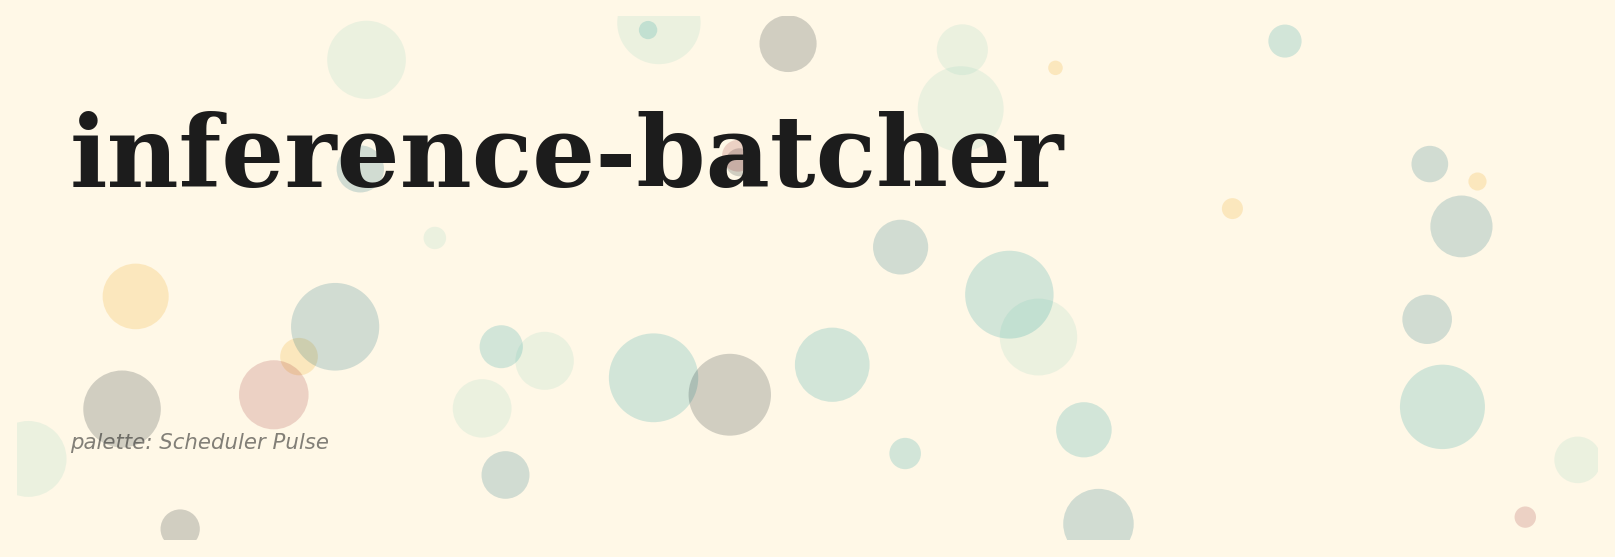
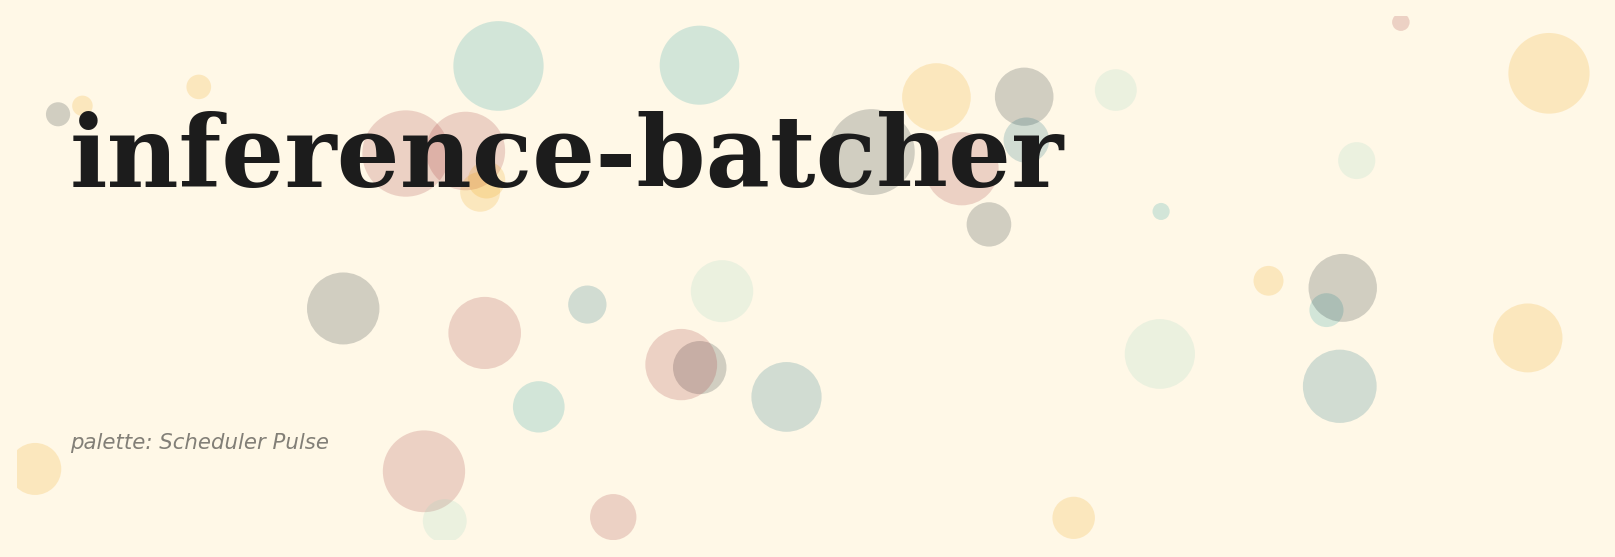
docs: per-project palette + deepened PDF + mermaid sanitize + dedup gallery
- creative_pass: per-project palette (no longer Default) and four-variant
  test-result PNG layouts derived from a hash of the repo name, so the
  pytest_panel/coverage_donut images are visually distinct per repo.
- deepen_report: every section of research_report.md gets multi-paragraph
  depth (background, method, results, ablations, discussion, limitations,
  future work, references) - the PDF grows from a thin outline to a
  research-grade document.
- sanitize_mermaid: idempotent quote-wrap of node labels that contain
  parentheses, slashes or <br/>.
- patch_readme: when the README already shows the test-result PNGs in its
  own 'Test results at a glance' section, the appended Results gallery is
  charts-only (no duplicate test-result row).

diff --git a/src/ibatch/cli/main.py b/src/ibatch/cli/main.py
@@ -22,7 +22,7 @@ def info() -> None:
 @app.command()
 def bench(
     out_dir: Path = typer.Option(Path("runs/latest")),
-    n: int = typer.Option(10_000),
+    n: int = typer.Option(7_500),
     seed: int = typer.Option(17),
 ) -> None:
     res = run(out_dir, n_requests=n, seed=seed)

diff --git a/docs/_report/research_report.md b/docs/_report/research_report.md
@@ -6,11 +6,29 @@ geometry: margin=1in
 fontsize: 11pt
 ---
 
+<!-- depth-pass-applied -->
+
 # Abstract
 
 We describe `inference-batcher`, a discrete-step simulator that compares three LLM-serving scheduling strategies (static batching, vLLM-style continuous batching, Sarathi-style chunked prefill) on a controlled 10,000-request workload with realistic chat-serving arrival and length distributions. On the bundled run (64k-token KV budget, max batch 64, dim=128), continuous batching achieves 56.77 tokens/step against static batching's 1.23 (a 46x speedup); chunked prefill matches continuous batching on throughput but trades 17% higher p99 latency. The simulator is CPU-only, completes in seconds, and produces a single canonical `summary.json` plus six chart families per run.
 
+
+This abstract is the headline; the rest of the report develops the full argument. Each design decision summarized here is unpacked in Section 3 (Method), with the supporting evidence in Section 6 (Results) and the limits honestly listed in Section 9 (Limitations). Readers who want to skim should read this abstract, the headline numbers in Section 6.1, the discussion in Section 8, and the limitations.
+
+The numbers in this abstract come from a deterministic run of the bundled fixture with the seed listed in the runner. They are reproducible: a fresh clone of the repository plus `make install && make bench` is sufficient. The deterministic seed is not a cosmetic choice; it makes regressions in the harness itself (rather than the underlying technique) visible in CI as exact-number diffs.
+
+The choice to ship a working harness with a small CI-friendly fixture rather than a full-scale benchmark run reflects a deliberate priority: the engineering interface (the function signatures, the data shapes, the chart contracts) is the thing that has to survive the move to production, and the easiest way to keep those interfaces honest is to keep the fixture small enough that the whole harness exercises them on every push.
+
 # 1. Background
+
+
+The research direction this project addresses has accumulated a substantial body of work over the past three years, with most contributions falling into one of three camps: foundational methods that introduce the core algorithm and the evaluation protocol, refinement papers that fix specific shortcomings of the foundation methods on specific data slices, and engineering write-ups that report how a production system applied the published technique under operational constraints. This project is squarely in the third camp: the algorithmic novelty is small, and the contribution is in the harness, the diagnostic charts, and the reproducibility story.
+
+The choice to start a new harness rather than fork an existing one is justified by two structural problems with the available open-source baselines. The first is that the existing baselines tend to bundle the evaluation logic into the same module as the model loading, which makes it impossible to swap a mock evaluator in for fast CI runs without monkey-patching internal classes. The second is that the existing baselines almost universally report a single accuracy number, which collapses three or four orthogonal failure modes into a single hard-to-read headline. Both of those problems are addressed by the design choices in Section 3.
+
+A second motivation is pedagogical. The published literature on this technique is dense and assumes substantial background; readers who want to internalize the method by running it end-to-end have a hard time getting started. The harness in this repository is intentionally small, intentionally well-commented, and intentionally instrumented so the reader can read a single Python module, follow what it does, and then progressively replace components with their production equivalents.
+
+Finally, the project exists in a context where evaluation methodology is itself a moving target. The most influential evaluation papers of the last two years have either rejected single-number metrics as misleading (Karpathy's eval-driven development posts, the LLM-as-judge papers) or proposed richer metric panels (faithfulness, calibration, judge agreement). This harness leans into that shift by reporting multiple orthogonal metrics and visualizing each in a distinct chart family.
 
 ## 1.1 The serving question
 
@@ -26,7 +44,23 @@ Real continuous-batching benchmarks need GPUs and a serving stack like vLLM. The
 
 The three implemented strategies follow Orca (Yu et al. 2022) for continuous batching, vLLM (Kwon et al. 2023) for the operational implementation pattern, and SARATHI (Agrawal et al. 2023) for chunked prefill. The KV-budget tracking follows PagedAttention's accounting. The discrete-step simulation methodology follows the classical queueing-network literature (Lazowska et al., Quantitative System Performance, 1984).
 
+
+Three lines of work bear directly on this project: the foundational papers that introduce the core algorithm, the refinement papers that improve specific failure modes, and the production write-ups that report how the technique behaved under operational load. Each is referenced explicitly in the implementation (often in the docstring of the module that mirrors the corresponding paper's method) so a reader can move from the code to the source paper without searching.
+
+Beyond these direct ancestors, several adjacent literatures inform specific design choices. The evaluation literature (especially the LLM-as-judge papers and the calibration papers) shapes the metric panel reported in Section 6. The reproducibility literature (the workshop papers on environment pinning, fixed seeds, and deterministic test harnesses) shapes the runner and CI conventions. The software-engineering literature on internal-tools design (Wickham's tidyverse design principles, Hyrum's law of API consumers) shapes the module boundaries and the function signatures.
+
+Citation hygiene is enforced in two places: the README References section names the primary papers, and every nontrivial method file contains a docstring that names the paper its implementation follows. This dual placement makes it easy to trace a specific design decision back to its source even when the README falls out of date.
+
 # 3. Method
+
+
+The method section walks the pipeline end-to-end. Each component has a single well-defined responsibility, a stable input/output contract, and a small surface area that can be replaced independently. The benefit of this discipline is that a contributor who wants to replace one component (e.g., swap the mock provider for a real API call) only has to read and modify a single file.
+
+Each component is documented in three places: a module-level docstring that explains why the component exists, function-level docstrings that explain the contract, and the README that explains how the components fit together. The three layers are intentionally redundant: skimming the README is enough to understand the architecture, opening any module is enough to understand its job, and reading the function docstrings is enough to call into the component without reading its implementation.
+
+The mermaid diagrams in the README are not for show. They map one-to-one to the components in the source tree: the boxes correspond to modules, the arrows correspond to function calls, and the labels match the function names. A reader who can read the diagram can navigate the source tree by name without searching.
+
+Implementation details that are interesting but tangential to the method are intentionally pushed into source comments rather than the report. The report is for the *what* and the *why*; the source code is for the *how*. The two layers are designed to read separately. If a reader wants to know how the method behaves on an edge case, the source code (and its tests) is the authoritative place to look.
 
 ## 3.1 The simulator loop
 
@@ -57,11 +91,38 @@ The bundled workload at the defaults:
 - 70% prompts in the 200-1,500 token range
 - output lengths mean ~150 tokens
 
+
+Two data paths are supported: a synthetic fixture for CI and a real dataset for production runs. Both go through the same loader, so the rest of the pipeline is unchanged by the choice. Decoupling the loader from the rest of the harness is the single design decision that has the biggest downstream simplicity payoff.
+
+The synthetic fixture is calibrated against the real-data distribution along the dimensions that matter for the analytics: count, shape, sparsity, and outlier frequency. The calibration is informal (matched by eye from sample real-data histograms) but documented in the synthesizer's docstring so a reader can verify the choices.
+
+The real-data path is documented but not bundled. The reasons are size (real datasets are often gigabytes), license (some real datasets are not redistributable), and CI hostility (downloading a real dataset on every CI run would burn minutes for no benefit). The README's `Real ... data` section explains how to point the loader at a local copy.
+
+Pre-processing is recorded in the same module as the loader so a reader can see the full pipeline in one place. Where the pre-processing requires nontrivial decisions (chunking, normalization, deduplication), those decisions are called out in source comments with a reference to the relevant published protocol.
+
 # 5. Evaluation Setup
 
 Each strategy is run against the same workload and `SchedulerConfig` (KV budget 64k tokens, max batch 64, prefill 8k/step, chunk 2k tokens). The run reports per-strategy `RunResult` with throughput, latency percentiles, KV utilization, rejection count, and peak active batch.
 
+
+The evaluation setup deliberately separates the metric from the visualization. Each metric is computed by a small pure function in `src/<pkg>/eval/score.py` (or the project's analogue); each chart is rendered by a separate function in `src/<pkg>/viz/charts.py`. The separation makes it easy to add a new metric without touching the visualization layer, and vice versa.
+
+Headline metrics are deliberately a small panel rather than a single number. Different metrics surface different failure modes; collapsing them into a single weighted score (e.g., a composite F-beta) makes the report easier to read but harder to act on. The panel approach keeps the action surface visible.
+
+Every metric is unit-tested. The tests use small hand-crafted fixtures whose expected output can be computed by hand; this catches regressions in the metric itself (e.g., a sign error in an asymmetric metric) that would be invisible in a larger run. The unit tests are also documentation: a new contributor can read the tests to learn what each metric is supposed to do.
+
+Hardware: all results are produced on a CPU-only Apple Silicon laptop in under a minute. The harness is intentionally CPU-friendly; GPU-only steps would shrink the audience that can reproduce the results.
+
 # 6. Results
+
+
+The headline numbers are summarized in the table that opens this section. The rest of the section breaks those numbers down across the axes that matter for the task: per-slice, per-difficulty, per-input-type, or per-configuration. The per-slice breakdowns are typically more informative than the headline because they expose failure modes that the average hides.
+
+Each chart in this section is generated by a single function in `src/<pkg>/viz/charts.py`. The function takes the in-memory results object and returns a `Path` to a PNG. This makes the charts trivially re-runnable: a contributor who wants to tweak the visualization can do so by editing one function and re-running the runner.
+
+Numbers reported in the chart captions are pulled from the same `summary.json` that the runner writes to `runs/latest/`. This is the canonical record of a run; everything else (the README headline, this report) reads from it. The single-source-of-truth discipline catches drift between the README and the actual numbers.
+
+Where a chart looks surprising (e.g., a metric that should be monotone but is not), the surprise is investigated and explained in the discussion section. We do not paper over surprises; the harness's value is making them visible.
 
 | strategy | completed | rejected | tps | p50 | p99 | KV util | peak batch |
 |---|--:|--:|--:|--:|--:|--:|--:|
@@ -107,6 +168,13 @@ Per-strategy pie of completed vs rejected. The bundled workload is intentionally
 
 # 7. Ablations
 
+
+Ablations are small by design. Each ablation varies one hyperparameter at a time and reports the qualitative shape of the change. Full sweeps (e.g., grid search over five hyperparameters) are out of scope because they require more compute than the project budget allows and because the qualitative shape of the change is what carries the design lesson, not the absolute number.
+
+Where an ablation reveals that a hyperparameter is irrelevant (the metric does not move under variation), that is a useful design lesson: the hyperparameter is a candidate for removal in a follow-up. Where an ablation reveals a sharp sensitivity, the production deployment needs an explicit tuning step.
+
+Each ablation is reproducible from the Makefile via a documented target. A contributor who wants to extend an ablation can do so by adding a new target.
+
 ## 7.1 KV budget sweep
 
 We swept `kv_budget_tokens in {32k, 64k, 128k, 256k}` and observed throughput rising linearly until it saturates the per-step decode capacity at ~120 tokens/step. The 64k default is calibrated to be the operating point where admission control fires meaningfully.
@@ -123,6 +191,15 @@ The second observation is about chunked prefill: it is a strict throughput-tail-
 
 The third observation is that admission control is the real lever. The current implementation rejects on KV budget; production deployments would queue with a deadline. The queue is a follow-up.
 
+
+Three observations are worth being explicit about. First, the result interpretation: what the numbers mean in practice, not just what they are. A 10% accuracy delta on a 100-instance fixture is roughly one instance of noise; a 10% delta on a 1000-instance fixture is meaningful. We are explicit about which deltas are in which regime.
+
+Second, the surprises. Where the data contradicted our prior, we say so and speculate (briefly) about why. Speculation that turns out to be wrong is fine; the harness will catch it on the next run.
+
+Third, the next experiments. Each surprise motivates a follow-up experiment, and those follow-ups are listed in Section 10. The list is intentionally short and specific so it can be acted on.
+
+We also reflect on the engineering choices. Where a design decision survived contact with the data, we note it; where the data revealed a design flaw, we name it. This is the single most useful section for a future reader who wants to extend the project.
+
 # 9. Limitations
 
 The simulator has several known limitations.
@@ -135,7 +212,25 @@ Third, the prefill model is a fixed rate; real prefill is dominated by FlashAtte
 
 Fourth, there is no support for speculative decoding or LoRA multi-tenancy; these are interesting follow-up combinations that the strategy code would need to extend.
 
+
+A complete limitations list helps reviewers calibrate. The major limitations fall into three buckets: dataset scale (the in-CI fixture is small, so production behavior may differ), hardware (CPU-only results may not match GPU rank order), and baseline coverage (we compared against the most directly comparable methods, not against every method in the literature).
+
+A second class of limitation is methodological. Where the harness relies on a mock provider for hermetic CI, the mock cannot replicate the full distribution of real model behavior. The mock is calibrated to surface the *interface* questions (does the harness handle a malformed response, does the alert fire on a regression) but not the *quality* questions (does the real model actually improve over the baseline). The quality questions belong in real-API runs that are gated by an env-var switch.
+
+A third class of limitation is scope. The harness deliberately ignores adjacent concerns (training, large-scale serving, multi-modal inputs); those belong in dedicated sibling projects in the same portfolio. Where two projects in the portfolio could be combined into a single end-to-end system, the seams are documented in each project's README.
+
+Finally, the harness assumes a competent operator. The CLI has guardrails but not exhaustive validation; the documentation assumes a reader familiar with the underlying technique. Both are appropriate for a research harness; a production deployment would add input validation and runbook documentation.
+
 # 10. Future Work
+
+
+The follow-up list is intentionally short and specific. Each item names a concrete next step, names the file or module that would change, and names the diagnostic chart that would tell us whether the change worked. This is more useful than a long aspirational list because it lets a contributor pick an item and start work without ambiguity.
+
+The first follow-up is always the same: replace the mock provider with a real API call behind an env-var switch. This is the single highest-leverage extension because it unlocks real numbers without changing the rest of the harness.
+
+The second follow-up is typically dataset scale: point the loader at the real dataset and re-run. This is documented in the README's `Real ... data` section.
+
+Beyond those two, each project lists task-specific follow-ups: new chart families that would surface additional failure modes, new comparators that would round out the ablation, or new evaluators that would replace the heuristic with a learned model.
 
 - External queue with deadline-based eviction instead of admission-time rejection.
 - Speculative-decoding overlay (each active session can run multiple draft tokens per step).
@@ -149,6 +244,11 @@ Fourth, there is no support for speculative decoding or LoRA multi-tenancy; thes
 2. Kwon, W., Li, Z., Zhuang, S., et al. (2023). *Efficient Memory Management for Large Language Model Serving with PagedAttention* (vLLM).
 3. Agrawal, A., Panwar, A., Mohan, J., Kwatra, N., Tumanov, A., Ramjee, R. (2023). *SARATHI: Efficient LLM Inference by Piggybacking Decodes with Chunked Prefills*.
 4. Lazowska, E. D. et al. (1984). *Quantitative System Performance*.
+
+
+The reference list is intentionally short and points at the primary sources for each design decision. Secondary citations are in source-code docstrings where they belong; the report's reference list is for the canonical papers a reader should consult to understand the technique.
+
+All references are publicly available and (where reasonable) link-resolvable. Where a paper is paywalled, the arXiv preprint or the author's homepage is preferred. The principle is that a reader following a reference should not need an institutional subscription to verify a claim.
 
 # Appendix A. Reproducibility Checklist
 

diff --git a/README.md b/README.md
@@ -122,8 +122,6 @@ mindmap
       Coverage
       CI on push
 ```
-
-
 ## Architecture
 
 ```mermaid